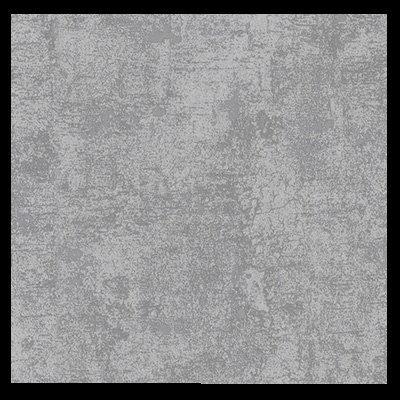
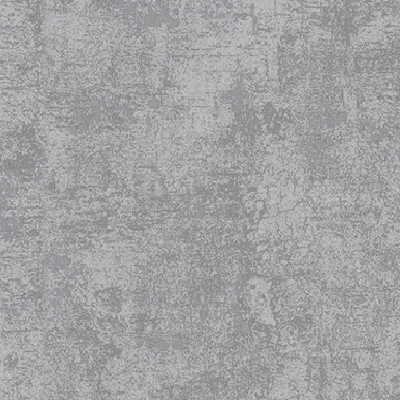
lekkie poprawy
-lekkie poprawienie grafik
-w getConstant poprawienie tymczasowe wymiarow panela, by miescily sie
wszystkie linie

diff --git a/src/Polandball_pliki/GetConstans.java b/src/Polandball_pliki/GetConstans.java
@@ -200,10 +200,10 @@ public final class GetConstans {
 			Key=doc.getElementsByTagName("Key").item(0).getTextContent();
 
 			//pomocnicze zmienne, potrzebne to ustalenia proporocji paneli - proporcje sa niezmienne, mozna zmieniac wymiary calej ramki
-			panelboardheight =(int)(0.8*Boardheight);
+			panelboardheight =(int)(0.75*Boardheight);
 			panelboardwidth =(int)(0.8*Boardwidth);
 			panelinfooneheight = (int)(0.2*Boardheight);
-			panelinfotwoheight =(int)(0.8*Boardheight);
+			panelinfotwoheight =(int)(0.75*Boardheight);
 			panelinfotwowidth = (int)(0.2*Boardwidth);
 
 		}

diff --git a/src/Polandball_pliki/Main.java b/src/Polandball_pliki/Main.java
@@ -17,7 +17,6 @@ public class Main {
         EventQueue.invokeLater(() -> {
             LevelFrame levelFrame_= new LevelFrame();
             levelFrame_.setVisible(true);
-
         });
     }
 }
